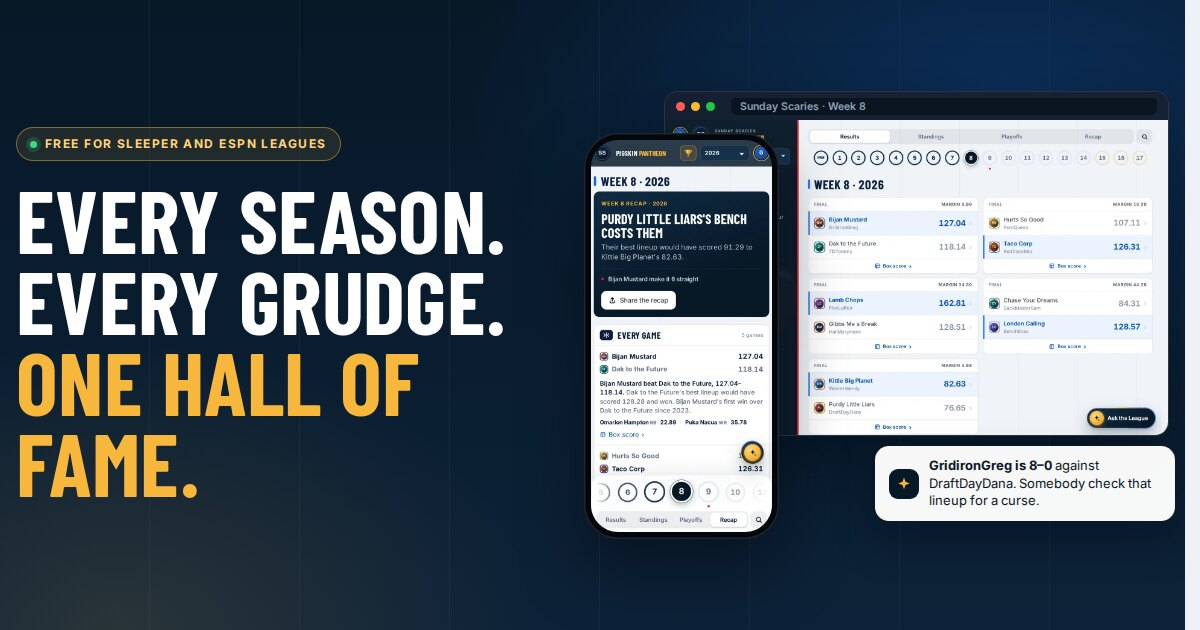
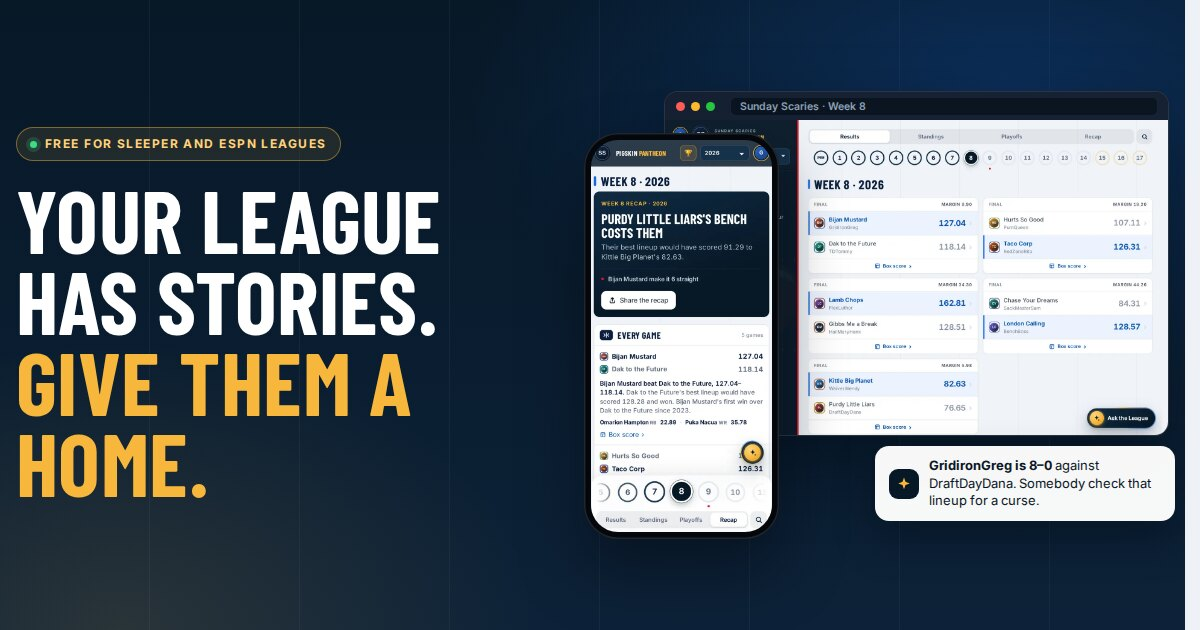
Front page tagline, one question fewer, and a switch for visitor counts
The hero now says "Your league has stories. Give them a home." (the
closing band takes "Every season. Every grudge. One hall of fame."), and
the share image and its title match. "Does everyone in my league need to
sign up?" is gone from the questions. On small phones the top bar's
button reads "Open league", so the name fits beside it.

ANALYTICS.cloudflareToken in account-config.js: set it to a Cloudflare
Web Analytics token and every page loads Cloudflare's cookie-free beacon
(never on localhost). Empty for now. sw.js v100.

Claude-Session: https://claude.ai/code/session_01HvZ7AJXxeeJPqxJSu6coYR

Changed region(s): [[0.0, 0.3016, 0.4317, 0.8143]]

diff --git a/index.html b/index.html
@@ -8,7 +8,7 @@
   <link rel="canonical" href="https://pigskinpantheon.com/" />
   <meta property="og:type" content="website" />
   <meta property="og:site_name" content="Pigskin Pantheon" />
-  <meta property="og:title" content="Pigskin Pantheon · Every season. Every grudge. One hall of fame." />
+  <meta property="og:title" content="Pigskin Pantheon · Your league has stories. Give them a home." />
   <meta property="og:description" content="Weekly recaps, an all-time record book, a 3D trophy room and an AI historian for your Sleeper or ESPN league. Free." />
   <meta property="og:url" content="https://pigskinpantheon.com/" />
   <meta property="og:image" content="https://pigskinpantheon.com/img/landing/og.jpg" />
@@ -1828,7 +1828,7 @@
       </nav>
       <div class="lp-nav-end">
         <div class="lp-account" data-account-slot></div>
-        <a class="lp-btn lp-btn-gold lp-btn-sm" href="#find" data-find-link>Open your league</a>
+        <a class="lp-btn lp-btn-gold lp-btn-sm" href="#find" data-find-link>Open <span class="lp-long">your </span>league</a>
       </div>
     </div>
   </header>
@@ -1837,7 +1837,7 @@
     <div class="lp-wrap lp-hero-grid">
       <div class="lp-hero-copy">
         <span class="lp-pill"><span class="lp-dot" aria-hidden="true"></span>Free for Sleeper and ESPN leagues</span>
-        <h1 id="lpTitle">Every season. Every grudge. <span class="brand-accent">One hall of fame.</span></h1>
+        <h1 id="lpTitle">Your league has stories. <span class="brand-accent">Give them a home.</span></h1>
         <p class="lp-lede">Pigskin Pantheon turns your fantasy league's whole history into a 3D trophy room you can walk through and an AI historian that talks trash with receipts, plus weekly recaps and an all-time record book.</p>
         <div class="lp-ctas">
           <a class="lp-btn lp-btn-gold" href="#find" data-find-link>Open your league, free</a>
@@ -2173,10 +2173,6 @@
           <p>Sleeper and ESPN leagues: redraft, keeper and dynasty, with or without divisions, any scoring. The history goes back as far as each platform keeps it.</p>
         </details>
         <details>
-          <summary>Does everyone in my league need to sign up?</summary>
-          <p>Each person makes their own free account and adds the league, which takes a minute. Recaps and share cards can go straight into the group chat for anyone.</p>
-        </details>
-        <details>
           <summary>What does the AI know?</summary>
           <p>Only your league: every score, standing, trade, waiver claim, draft and lineup the site has read. It quotes the numbers, and it can be wrong now and then, so the record book has the final word.</p>
         </details>
@@ -2191,7 +2187,7 @@
   <section class="lp-final" aria-labelledby="finalTitle">
     <div class="lp-wrap lp-final-inner">
       <img src="icons/crest.png" alt="" width="72" height="72" loading="lazy" />
-      <h2 id="finalTitle">Your league has stories. Give them a home.</h2>
+      <h2 id="finalTitle">Every season. Every grudge. <span class="brand-accent">One hall of fame.</span></h2>
       <div class="lp-ctas">
         <a class="lp-btn lp-btn-gold" href="#find" data-find-link>Open your league, free</a>
         <a class="lp-btn lp-btn-ghost" href="season.html?league=demo">See the demo league</a>

diff --git a/account.js b/account.js
@@ -77,6 +77,17 @@
   // bar) leave it out under AdSense.
   document.documentElement.classList.toggle("lh-ads-adsense", Boolean(CFG.ADS && CFG.ADS.provider === "adsense"));
 
+  /* Visitor counts (ANALYTICS in account-config.js): Cloudflare Web
+     Analytics' beacon, on every page, once a token is set. */
+  const CF_TOKEN = String((CFG.ANALYTICS && CFG.ANALYTICS.cloudflareToken) || "").trim();
+  if (CF_TOKEN && /^[\w-]{8,64}$/.test(CF_TOKEN) && !/^(localhost|127\.)/.test(location.hostname)) {
+    const beacon = document.createElement("script");
+    beacon.defer = true;
+    beacon.src = "https://static.cloudflareinsights.com/beacon.min.js";
+    beacon.setAttribute("data-cf-beacon", JSON.stringify({ token: CF_TOKEN }));
+    document.head.appendChild(beacon);
+  }
+
   /* ------------------------------------------------------------ errors */
 
   /* Both backends fail with the same short codes; this turns them into

diff --git a/account-config.js b/account-config.js
@@ -76,6 +76,14 @@ window.ACCOUNT_CONFIG = {
   STRIPE_PAYMENT_LINK: "",
   STRIPE_PORTAL_LINK: "",
 
+  // Visitor counts: Cloudflare Web Analytics, free and cookie-free (so no
+  // cookie banner). Cloudflare ▸ Analytics & Logs ▸ Web Analytics ▸ Add a
+  // site ▸ pigskinpantheon.com, pick the JavaScript snippet, and paste the
+  // token from it (the "token" value) here. Empty: nothing is loaded.
+  ANALYTICS: {
+    cloudflareToken: ""
+  },
+
   // Ads. Every slot on the site is a fixed-size box; with no provider set
   // it shows a labelled placeholder. For Google AdSense, set the publisher
   // id ("ca-pub-…") and, per slot name, the ad unit id from AdSense.

diff --git a/landing.css b/landing.css
@@ -96,6 +96,9 @@ html:has(body.lp) { scroll-behavior: smooth; scroll-padding-top: 76px; }
   .lp-account .acct-button-label { display: none; }
   .lp-account .acct-button:has(.acct-button-label) { width: 40px; height: 40px; padding: 0; justify-content: center; border-radius: 50%; }
 }
+@media (max-width: 430px) {
+  .lp-nav .lp-long { display: none; }
+}
 @media (max-width: 360px) {
   .lp-logo > span { display: none; }
 }

diff --git a/sw.js b/sw.js
@@ -8,7 +8,7 @@
        copies in IndexedDB
    Bump CACHE_VERSION whenever the precache list or these rules change. */
 
-const CACHE_VERSION = 'v99';
+const CACHE_VERSION = 'v100';
 const SHELL_CACHE = `league-history-shell-${CACHE_VERSION}`;
 const FONT_CACHE = `league-history-fonts-${CACHE_VERSION}`;
 

diff --git a/README.md b/README.md
@@ -425,6 +425,13 @@ configuration (site URL and redirect URLs) and to the functions'
 working there. Every link the site builds is relative to its own address,
 so nothing else changes.
 
+**Visitor counts.** GitHub Pages and the domain registrar don't count
+visits. Set `ANALYTICS.cloudflareToken` in `account-config.js` to a
+Cloudflare Web Analytics token (Cloudflare ▸ Analytics & Logs ▸ Web
+Analytics ▸ Add a site, JavaScript snippet) and every page loads its
+beacon: page views, visitors, referrers, countries and devices, with no
+cookies. Nothing loads while it's empty, or on localhost.
+
 The site is also an installable app (`manifest.webmanifest`, `sw.js`). Bump
 `CACHE_VERSION` in `sw.js` whenever a file in its precache list changes, or
 returning visitors keep the old copy.
